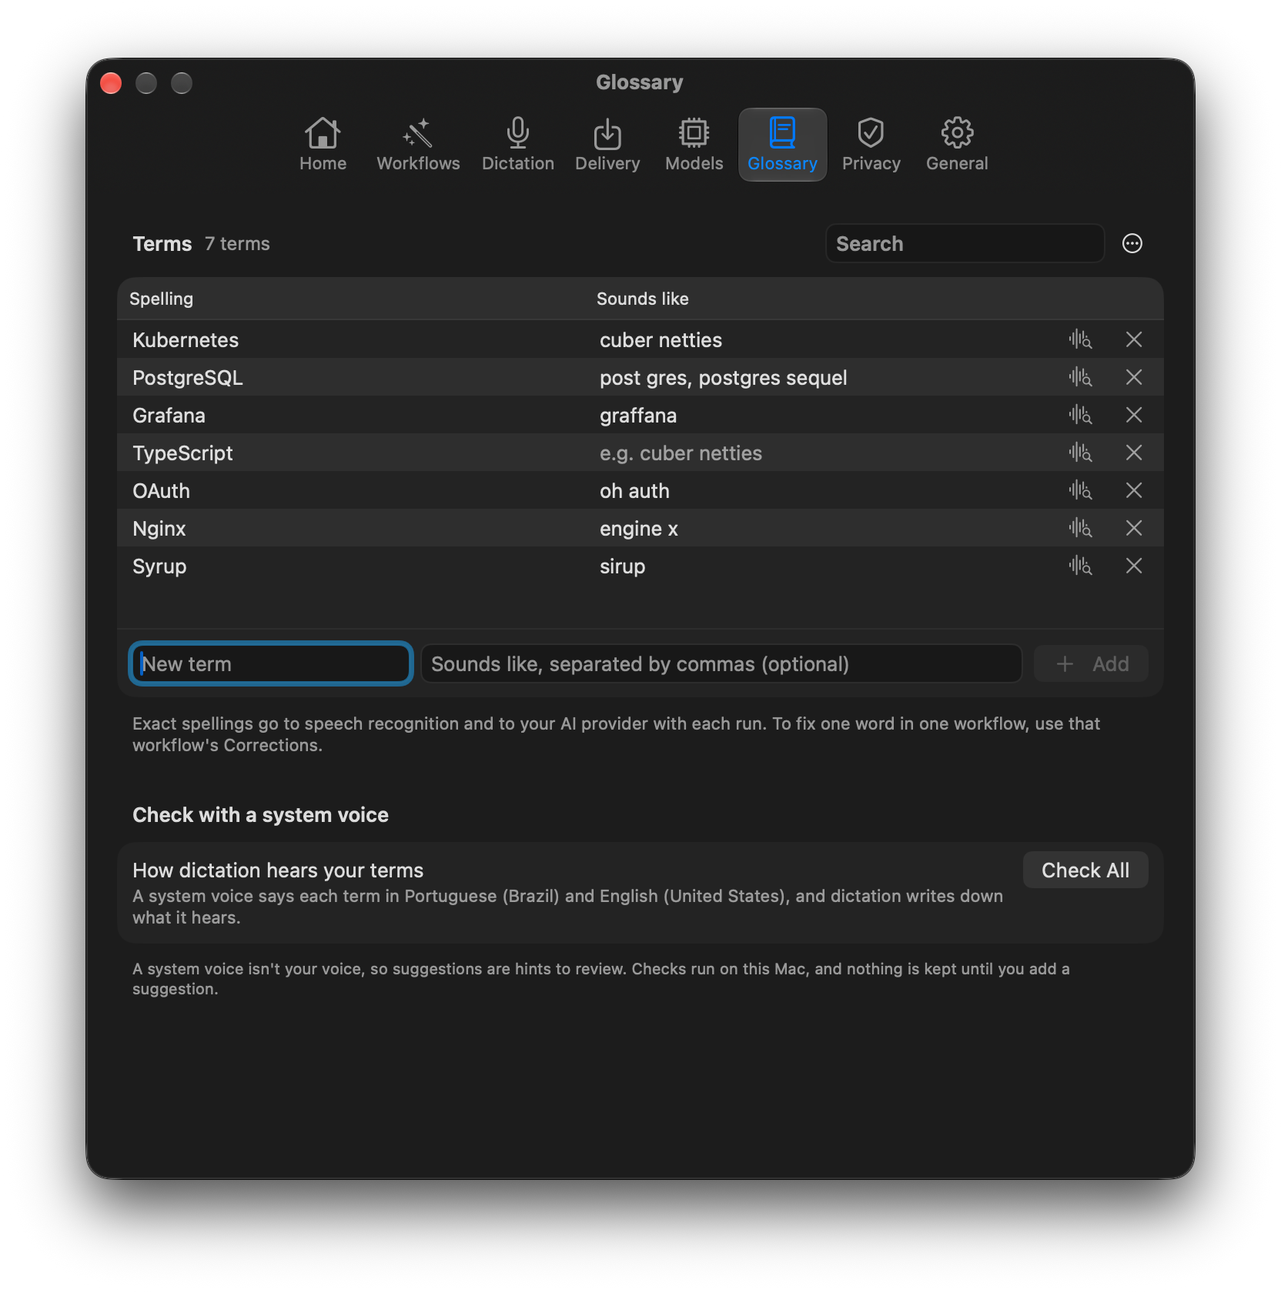
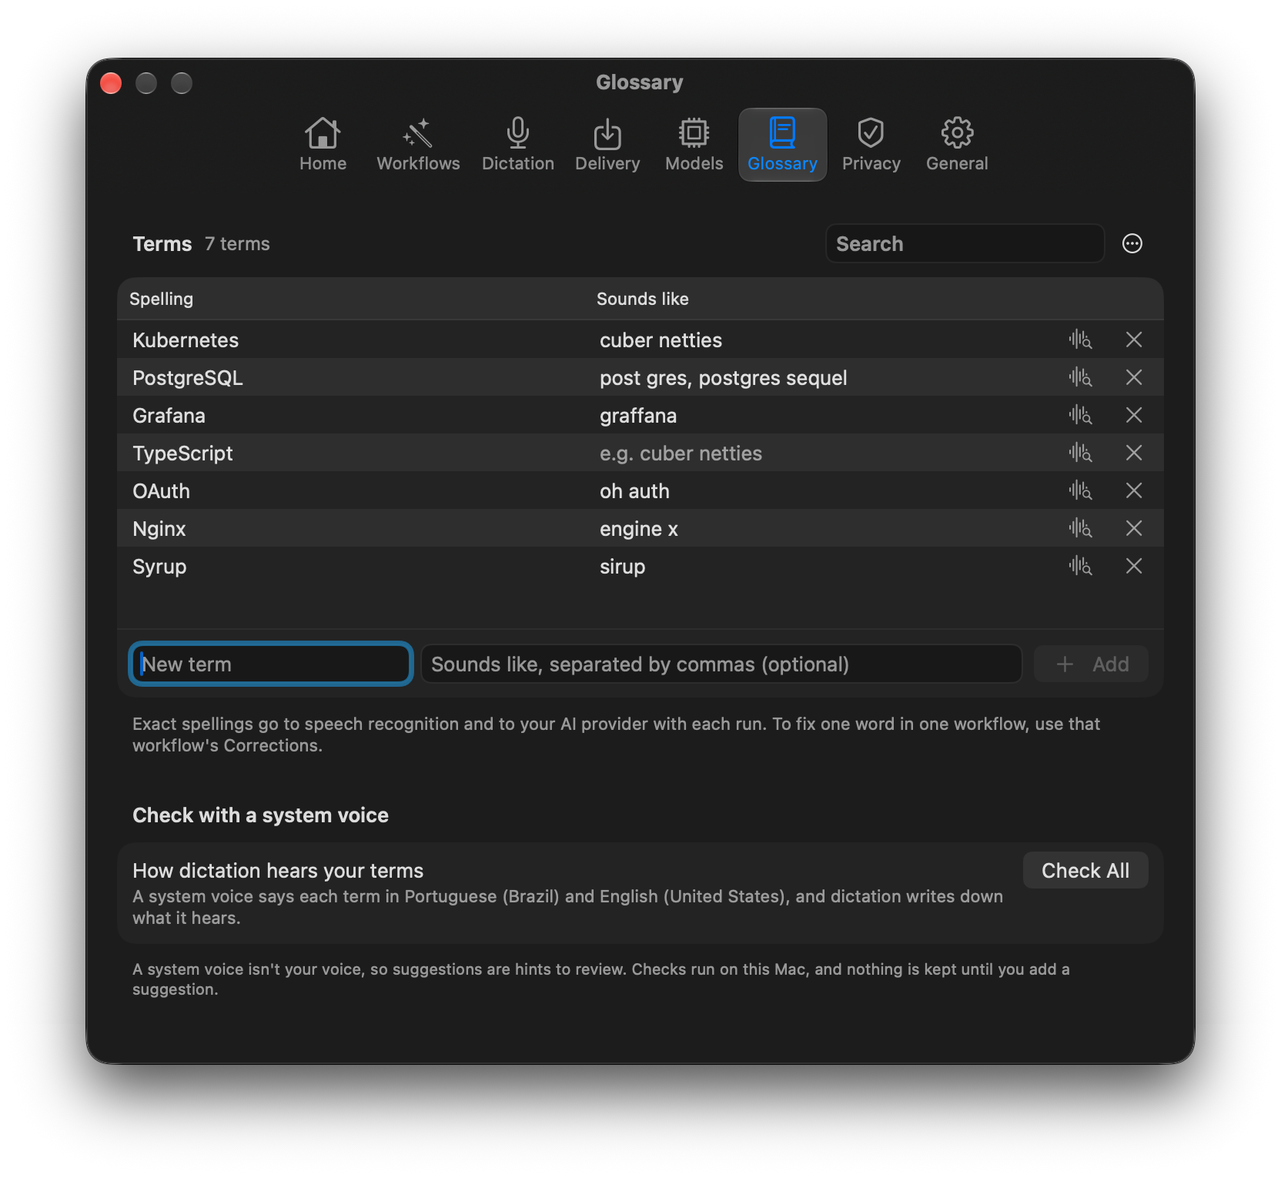
Fix the re-check findings on the learning cleanup
- A leftover folder counts as gone only when the system reports it
  missing, so an unsearchable support folder no longer hides leftovers.
- Folder paths have no trailing slash, so a symbolic link in a folder's
  place is removed without following it.
- Privacy waits for the launch cleanup and names only what is left.
- ARCHITECTURE no longer describes filing recordings; the README
  glossary screenshots are a crop of the original capture instead of a
  painted-over area.

diff --git a/Sources/Learning/RetiredGlossaryLearning.swift b/Sources/Learning/RetiredGlossaryLearning.swift
@@ -8,6 +8,8 @@ import OSLog
 enum RetiredGlossaryLearning {
     static let folders = ["Recordings", "WhisperModels"]
     static let settingKey = "glossaryLearningEnabled"
+    /// The cleanup `SyrupApp` starts at launch, so Privacy reads the folders after it, not during it.
+    @MainActor static var launchCleanup: Task<[URL], Never>?
     private static let logger = Logger(subsystem: "org.syrup.SyrupApp", category: "GlossaryLearning")
 
     /// Deletes both folders and the setting, and returns the folders still on disk.
@@ -30,12 +32,40 @@ enum RetiredGlossaryLearning {
         return remainingFolders(inSupportFolder: supportFolder, fileManager: fileManager)
     }
 
-    /// The folders the flow left that are still on disk.
+    /// The folders the flow left that may still be on disk: every one the system does not report as
+    /// missing. A folder that cannot be inspected, because a parent cannot be searched, is included,
+    /// so Privacy never says nothing is left when it cannot tell.
     static func remainingFolders(inSupportFolder supportFolder: URL? = nil, fileManager: FileManager = .default) -> [URL] {
         let supportFolder = supportFolder ?? defaultSupportFolder(fileManager: fileManager)
         return folders
-            .map { supportFolder.appending(path: $0, directoryHint: .isDirectory) }
-            .filter { fileManager.fileExists(atPath: $0.path(percentEncoded: false)) }
+            // No trailing slash: with one, the system follows a link instead of reporting the link.
+            .map { supportFolder.appending(path: $0, directoryHint: .notDirectory) }
+            .filter { isMissing($0, fileManager: fileManager) == false }
+    }
+
+    /// Not following a symbolic link, so a link left in the folder's place is reported and removed,
+    /// never what it points to.
+    private static func isMissing(_ url: URL, fileManager: FileManager) -> Bool {
+        do {
+            _ = try fileManager.attributesOfItem(atPath: url.path(percentEncoded: false))
+            return false
+        } catch {
+            let error = error as NSError
+            let posix = (error.userInfo[NSUnderlyingErrorKey] as? NSError).flatMap { $0.domain == NSPOSIXErrorDomain ? $0.code : nil }
+            return error.code == NSFileReadNoSuchFileError || posix == Int(ENOENT) || posix == Int(ENOTDIR)
+        }
+    }
+
+    /// Privacy's description of what is left, naming only the folders still there.
+    static func leftoverDescription(for remaining: [URL]) -> String {
+        let names = Set(remaining.map(\.lastPathComponent))
+        let what = switch (names.contains("Recordings"), names.contains("WhisperModels")) {
+        case (true, true): "recordings and a comparison model"
+        case (true, false): "recordings"
+        default: "a comparison model"
+        }
+        let pronoun = names.contains("Recordings") ? "They" : "It"
+        return "An earlier version kept \(what) on this Mac. \(pronoun) could not be deleted yet; Syrup tries again at each launch."
     }
 
     static func defaultSupportFolder(fileManager: FileManager = .default) -> URL {

diff --git a/Tests/SyrupTests/RetiredGlossaryLearningTests.swift b/Tests/SyrupTests/RetiredGlossaryLearningTests.swift
@@ -98,6 +98,51 @@ struct RetiredGlossaryLearningTests {
         #expect(exists("WhisperModels", in: support) == false)
     }
 
+    /// A support folder that cannot be searched hides whether the folders exist. They are reported, so
+    /// Privacy never says nothing is left when it cannot tell.
+    @Test func foldersThatCannotBeInspectedAreReported() throws {
+        let support = supportFolder()
+        defer {
+            try? fileManager.setAttributes([.posixPermissions: 0o700], ofItemAtPath: support.path(percentEncoded: false))
+            try? fileManager.removeItem(at: support)
+        }
+        try writeLeftovers(in: support)
+        let suite = testDomainName("RetiredLearning")
+        let defaults = try #require(TestDefaults(suiteName: suite))
+        defer { defaults.removePersistentDomain(forName: suite) }
+        try fileManager.setAttributes([.posixPermissions: 0o600], ofItemAtPath: support.path(percentEncoded: false))
+
+        #expect(RetiredGlossaryLearning.remainingFolders(inSupportFolder: support).map(\.lastPathComponent) == ["Recordings", "WhisperModels"])
+        #expect(RetiredGlossaryLearning.removeLeftovers(inSupportFolder: support, userDefaults: defaults).count == 2)
+
+        try fileManager.setAttributes([.posixPermissions: 0o700], ofItemAtPath: support.path(percentEncoded: false))
+        #expect(exists("Recordings", in: support), "Nothing was deleted while the folder could not be searched")
+    }
+
+    /// A symbolic link in a folder's place, even one pointing nowhere, is removed; what it points to
+    /// is never touched.
+    @Test func aLinkInAFoldersPlaceIsRemovedAndItsTargetKept() throws {
+        let support = supportFolder()
+        let outside = supportFolder()
+        defer {
+            try? fileManager.removeItem(at: support)
+            try? fileManager.removeItem(at: outside)
+        }
+        try write("kept.wav", in: outside)
+        try fileManager.createDirectory(at: support, withIntermediateDirectories: true)
+        try fileManager.createSymbolicLink(at: support.appending(path: "Recordings"), withDestinationURL: outside)
+        try fileManager.createSymbolicLink(at: support.appending(path: "WhisperModels"), withDestinationURL: outside.appending(path: "missing"))
+        let suite = testDomainName("RetiredLearning")
+        let defaults = try #require(TestDefaults(suiteName: suite))
+        defer { defaults.removePersistentDomain(forName: suite) }
+
+        #expect(RetiredGlossaryLearning.removeLeftovers(inSupportFolder: support, userDefaults: defaults).isEmpty)
+
+        #expect((try? fileManager.destinationOfSymbolicLink(atPath: support.appending(path: "Recordings").path(percentEncoded: false))) == nil)
+        #expect((try? fileManager.destinationOfSymbolicLink(atPath: support.appending(path: "WhisperModels").path(percentEncoded: false))) == nil)
+        #expect(exists("kept.wav", in: outside))
+    }
+
     @Test func launchWithNothingLeftOverChangesNothing() throws {
         let support = supportFolder()
         defer { try? fileManager.removeItem(at: support) }

diff --git a/Tests/SyrupTests/SettingsCopyTests.swift b/Tests/SyrupTests/SettingsCopyTests.swift
@@ -272,3 +272,17 @@ struct MishearingCheckCopyTests {
         #expect(copy.detail.contains("ordinary sentences"))
     }
 }
+
+struct RetiredLearningCopyTests {
+    /// The row names only what is left, so it never says recordings remain when only the model does.
+    @Test func theLeftoverRowNamesOnlyWhatIsLeft() {
+        let support = URL(filePath: "/Syrup", directoryHint: .isDirectory)
+        let recordings = support.appending(path: "Recordings"), model = support.appending(path: "WhisperModels")
+        #expect(RetiredGlossaryLearning.leftoverDescription(for: [recordings, model])
+            == "An earlier version kept recordings and a comparison model on this Mac. They could not be deleted yet; Syrup tries again at each launch.")
+        #expect(RetiredGlossaryLearning.leftoverDescription(for: [recordings])
+            == "An earlier version kept recordings on this Mac. They could not be deleted yet; Syrup tries again at each launch.")
+        #expect(RetiredGlossaryLearning.leftoverDescription(for: [model])
+            == "An earlier version kept a comparison model on this Mac. It could not be deleted yet; Syrup tries again at each launch.")
+    }
+}

diff --git a/Sources/Settings/PrivacySettingsPane.swift b/Sources/Settings/PrivacySettingsPane.swift
@@ -38,6 +38,7 @@ struct PrivacySettingsPane: View {
         }
         .formStyle(.grouped)
         .task {
+            _ = await RetiredGlossaryLearning.launchCleanup?.value
             retiredLearningLeftovers = await Task.detached(priority: .utility) {
                 RetiredGlossaryLearning.remainingFolders()
             }.value
@@ -178,7 +179,7 @@ struct PrivacySettingsPane: View {
             }
         } label: {
             Text("Files from glossary learning")
-            Text("An earlier version kept recordings and a comparison model on this Mac. They could not be deleted yet; Syrup tries again at each launch.")
+            Text(RetiredGlossaryLearning.leftoverDescription(for: retiredLearningLeftovers))
         }
         if retiredLearningDeletionFailed {
             Text("Couldn't delete them. You can delete them in Finder.")

diff --git a/Sources/App/SyrupApp.swift b/Sources/App/SyrupApp.swift
@@ -115,7 +115,7 @@ struct SyrupApp: App {
         Task { @MainActor in
             await appState.history.deleteLeftoverFileIfPersistenceIsOff()
         }
-        Task.detached(priority: .utility) {
+        RetiredGlossaryLearning.launchCleanup = Task.detached(priority: .utility) {
             RetiredGlossaryLearning.removeLeftovers()
         }
         Task { @MainActor in

diff --git a/ARCHITECTURE.md b/ARCHITECTURE.md
@@ -139,7 +139,7 @@ Before lowering to 0.3 of the original values, the ducker synchronizes one JSON-
 
 `AppSettings.persistHistory` is `fileprivate(set)`: only `PrivacyOptIns`, in the same file, changes it. Each `AppSettings` makes exactly one (`AppSettings.privacyOptIns`), and only that file can make one. `AppState` attaches its own history store to it once at startup; attaching again is a precondition failure, and only a Debug-only `detachForTesting` lets tests build several states on one settings. Before the attachment an opt-out is refused and the setting stays on, because a file from an earlier launch may be on disk with nothing attached to delete it; turning the opt-in on is allowed. Settings calls `setPersistHistory(_:)` with nothing but the Bool, so no caller can turn it off without deleting what the app kept. A voice run reads the usage-stats opt-in at the trigger (`PipelineRun.keepsUsageStats`), so turning it on mid-run never counts that run, and checks the live setting again before counting, so turning it off mid-run wins.
 
-Earlier builds had an opt-in glossary learning flow. It kept dictation audio under `Application Support/Syrup/Recordings/`, transcribed it again with a Whisper model kept under `Application Support/Syrup/WhisperModels/`, and had the configured provider compare the two transcripts to propose terms. It was removed on 2026-11-14, and audio is no longer written to disk. At every launch, `RetiredGlossaryLearning.removeLeftovers()` runs off the main actor and deletes those two folders, if present, and the `glossaryLearningEnabled` key. It touches nothing else in the folder. A folder it cannot delete is logged by error code and tried again at the next launch, and Privacy lists it (`remainingFolders`) under "Files from glossary learning" with Show in Finder and Delete Now, so leftover audio is never hidden. `script/check-boundaries.sh` fails if any source file uses an audio file API (`AVAudioFile`, `AVAudioRecorder`, `AVAssetWriter`, `ExtAudioFileCreateWithURL`, `AudioFileCreateWithURL`).
+Earlier builds had an opt-in glossary learning flow. It kept dictation audio under `Application Support/Syrup/Recordings/`, transcribed it again with a Whisper model kept under `Application Support/Syrup/WhisperModels/`, and had the configured provider compare the two transcripts to propose terms. It was removed on 2026-11-14, and audio is no longer written to disk. At every launch, `RetiredGlossaryLearning.removeLeftovers()` runs off the main actor (`launchCleanup`) and deletes those two folders, if present, and the `glossaryLearningEnabled` key. It touches nothing else in the folder, and a symbolic link in a folder's place is removed without following it. A folder it cannot delete is logged by error code and tried again at the next launch. Privacy waits for the launch cleanup, then lists every folder the system does not report as missing (`remainingFolders`), including one it cannot inspect, under "Files from glossary learning", naming what is left, with Show in Finder and Delete Now. The list is read each time the pane appears. `script/check-boundaries.sh` fails if any source file uses an audio file API (`AVAudioFile`, `AVAudioRecorder`, `AVAssetWriter`, `ExtAudioFileCreateWithURL`, `AudioFileCreateWithURL`).
 
 Proposals the flow stored in the versioned `glossaryProposalsV1` blob still show in Glossary. Add moves one into the personal glossary; Dismiss removes it and keeps the term from being proposed again. `GlossaryProposalList` holds at most 50 proposals and forgets the oldest of more than 500 dismissals. Nothing adds new proposals.
 
@@ -226,7 +226,7 @@ Pausing removes the main, revision, workflow, and cancel handlers from KeyboardS
 
 Swift concurrency throughout: the pipeline run is a `Task` owned by `PipelineRun`; cancellation is cooperative (`task.cancel()`). Audio buffers flow through an `AsyncStream` from the AudioQueue callback queue, and provider text deltas flow through `AsyncThrowingStream`. `StreamingTypist` is main-actor isolated because it pins `NSWorkspace` state and posts UI input events; provider streaming remains off-main. Passive preview consumes the same stream without input events and writes the clipboard only on successful completion. OpenAI-compatible streaming keeps the request timeout for the first response, then uses a cancellable deadline task reset only by a chunk whose choice carries something other than `role` (`OpenAISSEParser.progressChunks`, `JSONFieldValue.carriesSomething`): answer text, reasoning as a string, as structured `reasoning_details`, or as a part inside `content`, or a tool call with content; empty text parts and objects holding only `type` or `index` do not count. Keepalive comments, empty or usage-only chunks, and role-only deltas cannot postpone it. Until the answer starts, a streamed request also has a limit of ten times the timeout, five minutes by default, so a server that keeps sending reasoning or nothing without ever answering cannot hold a run; once answer text arrives that limit ends, and the inactivity deadline and the 8 MB cap bound the rest, so a slow model writing a long answer is not cut off, and `[DONE]` ends consumption without waiting for transport EOF. Some servers close the stream after a `finish_reason: "stop"` chunk without sending `[DONE]`; the parser task then ends the event stream with `.done` (`OpenAISSEParser.didReceiveStop`), so the run completes, while EOF with neither is still a connection failure. A final chunk may omit `delta`. A chunk with an `error` object or `finish_reason: "error"` fails the run with `TranslationError.providerReportedError`, even when `[DONE]` follows, so partial text is never delivered as a success. Every response, streamed or not, stops at 8 MB (`responseBodyLimit`) with `TranslationError.responseTooLarge`: a body that is not consumed as SSE, including the atomic request's, is read through `readResponseBody`, and `consumeSSE` counts every streamed byte, which also bounds a line that never ends. Deltas reset the inactivity deadline, so without this a model stuck in a loop would keep typing until Esc. `AppState` is `@MainActor`; audio/network work happens off-main.
 
-`AppState.pipelineState` is `private(set)`; the phase files move a run on only through `enterProcessing(.transcribing / .translating)`. The voice run is `runPipeline`, a short sequence of named phases in `AppState+VoiceRun.swift`: open the microphone, await the run's configuration, start transcription, finish transcription at the stop, deliver the transcript (`AppState+Delivery.swift`), then file the recording and count usage. `VoiceRunWork` holds the child tasks the phases share. Every trigger, release, revision, menu, and cancel event goes through `PipelineTransitions.command(for:in:run:hasLastResult:)`, a pure table that returns start, stop, cancel, or ignore; `AppState` performs the command and async completions move the state on. Delivery has one commit point, `commit(_:)`: the clipboard write, the success record, and `deliveryCommitted`, after which neither cancel nor a trigger re-press applies. `finishRunSucceeded` and `finishRunFailed` both return early for a run that no longer owns the pipeline. Atomic, streamed, and pause-transformed results all pass through it, and every failed transformation is recorded once by `recordFailedDelivery`, which stores the record's ID on the run so the failure notification offers that record's actions rather than an older record with the same message. The app delegate's `applicationShouldTerminate` calls `AppState.prepareForTermination()` on every quit path (menu, Command-Q, logout, update relaunch): it ends any run, then waits up to two seconds in total for every run task still returning (including a cancelled run discarding its recording), for finished runs still filing their recordings, and for the output volume to be restored, and then up to two more seconds to flush usage stats and history, so quitting takes at most about 4 seconds. Run tasks are tracked from launch until they return; `waitForPendingWork()` awaits the same set without a limit, which tests use before asserting that nothing else happens.
+`AppState.pipelineState` is `private(set)`; the phase files move a run on only through `enterProcessing(.transcribing / .translating)`. The voice run is `runPipeline`, a short sequence of named phases in `AppState+VoiceRun.swift`: open the microphone, await the run's configuration, start transcription, finish transcription at the stop, deliver the transcript (`AppState+Delivery.swift`), then count usage. `VoiceRunWork` holds the child tasks the phases share. Every trigger, release, revision, menu, and cancel event goes through `PipelineTransitions.command(for:in:run:hasLastResult:)`, a pure table that returns start, stop, cancel, or ignore; `AppState` performs the command and async completions move the state on. Delivery has one commit point, `commit(_:)`: the clipboard write, the success record, and `deliveryCommitted`, after which neither cancel nor a trigger re-press applies. `finishRunSucceeded` and `finishRunFailed` both return early for a run that no longer owns the pipeline. Atomic, streamed, and pause-transformed results all pass through it, and every failed transformation is recorded once by `recordFailedDelivery`, which stores the record's ID on the run so the failure notification offers that record's actions rather than an older record with the same message. The app delegate's `applicationShouldTerminate` calls `AppState.prepareForTermination()` on every quit path (menu, Command-Q, logout, update relaunch): it ends any run, then waits up to two seconds in total for every run task still returning, including a cancelled run still unwinding, and for the output volume to be restored, and then up to two more seconds to flush usage stats and history, so quitting takes at most about 4 seconds. Run tasks are tracked from launch until they return; `waitForPendingWork()` awaits the same set without a limit, which tests use before asserting that nothing else happens.
 
 When typing a stream into the editor, `StreamingTypist` checks the pinned field through Accessibility once per flush, off the main actor, and only the frontmost app and Secure Event Input between keystroke steps. Flushes run one at a time on a single chain: each awaits its focus check, then rechecks that the typist was neither cancelled nor stopped while it waited, then posts the pending text. Deltas that arrive meanwhile queue behind it, so text keeps its order, and Esc still stops all posting at once. `finish()` and direct `typeText(_:)` are async for the same reason.
 

diff --git a/plans/syrup/2026-11-14/remove-self-learning.md b/plans/syrup/2026-11-14/remove-self-learning.md
@@ -66,6 +66,14 @@ Verified 2026-11-14 from Mistral's reasoning docs (https://docs.mistral.ai/capab
   - Apple's early cancel (Fable, pre-existing gap on a line this branch changed). `appleStopsAsSoonAsTheModelTranscriptExists` holds the transformation; removing the cancel fails it.
   - Docs: the recording tee and "recording analysis" (ARCHITECTURE, QA), the parser rule (ARCHITECTURE twice), the Privacy row (ARCHITECTURE, QA), and the Mistral test comment, which now says the fixture follows the docs' prose because the page prints no streamed JSON.
   - Leftovers: the unused `work` parameter of `openMicrophone`, `FakeRecorder.finishesStreamOnStop`, and the cleanup's default folder now uses the injected file manager.
-  - README screenshots: the Learning section is painted over with the window's own background (white in light, `#1C1C1C` in dark, checked uniform around it). Settings panes have a fixed size, so the real window shows that empty space. This edits the existing capture; a fresh capture is still worth taking before the next public release.
+  - README screenshots: superseded by the re-check below.
   - Left as is: "retention cleanup" in AGENTS.md, ARCHITECTURE.md, and `SyrupApp.swift` (still true for the history cleanup and this one; AGENTS.md needs a request); "Suggested from your recordings" (the remaining proposals did come from recordings); `addGlossaryProposal` with only test callers; numbers and flags counting as progress (step 4); the five-name audio boundary list.
 - 2026-11-14: `script/ci_test.sh` passed on the fixes: boundary check, production build with no source warnings, 801 tests in 109 suites. Committed; a three-delegate re-check of the fix commit runs before any merge.
+- 2026-11-14, re-check of `65276e2` (Astra 8, Fable 8.5, Muse 8.5; no behavior regression; every claimed fix failed its test when removed; quit tests passed 10 of 10 and 5 of 5 repeats). Fixed:
+  - A support folder that cannot be searched hid the leftovers (Astra, Muse): `fileExists` said no. Now a folder counts as missing only when the system says so (`ENOENT`, `ENOTDIR`); anything else is reported. Red first: `foldersThatCannotBeInspectedAreReported` failed on `65276e2`.
+  - Paths had a trailing slash, so a dangling symbolic link in a folder's place was followed and skipped. Now the link itself is reported and removed and its target kept (`aLinkInAFoldersPlaceIsRemovedAndItsTargetKept`, which failed before the slash was removed).
+  - The Privacy row names only what is left (`RetiredLearningCopyTests`), and waits for the launch cleanup (`RetiredGlossaryLearning.launchCleanup`) before reading, so a deletion still under way is not shown as failed (Fable, Muse).
+  - ARCHITECTURE still said a run files its recording and quit waits for recordings (Muse); fixed, and the cleanup paragraph describes the inspection rule and link handling.
+  - README screenshots (all three): painting the Learning section over was not faithful, because the Glossary pane has a fixed height and "Built-in vocabulary" moves up into that space. A real view rendered offscreen at 2x with the same data lines up with the capture exactly (offset 112, 252), but its text draws lighter, with or without font smoothing, so pasting it in would look patched. The screenshots are now the original capture cropped below the voice-check footer, joined to the original window bottom where its edges are still straight (seam difference at most 3 levels out of 255). Every pixel is real current UI, but the real window is taller and shows Built-in vocabulary below that point. A fresh capture is the faithful fix.
+  - Left as is: parser edge cases with no documented provider shape (a part with no `text` but labels, a `{"type":"reasoning","text":…}` part read as answer, `text: null` with an `id`), all counted the same on `a3dec87` and belong to step 4; the Privacy row not refreshing after a deletion in Finder until the pane reappears.
+- 2026-11-14: `script/ci_test.sh` passed on the re-check fixes: boundary check, production build with no source warnings, 804 tests in 110 suites. Committed; a final three-delegate re-check of this commit runs before any merge.
